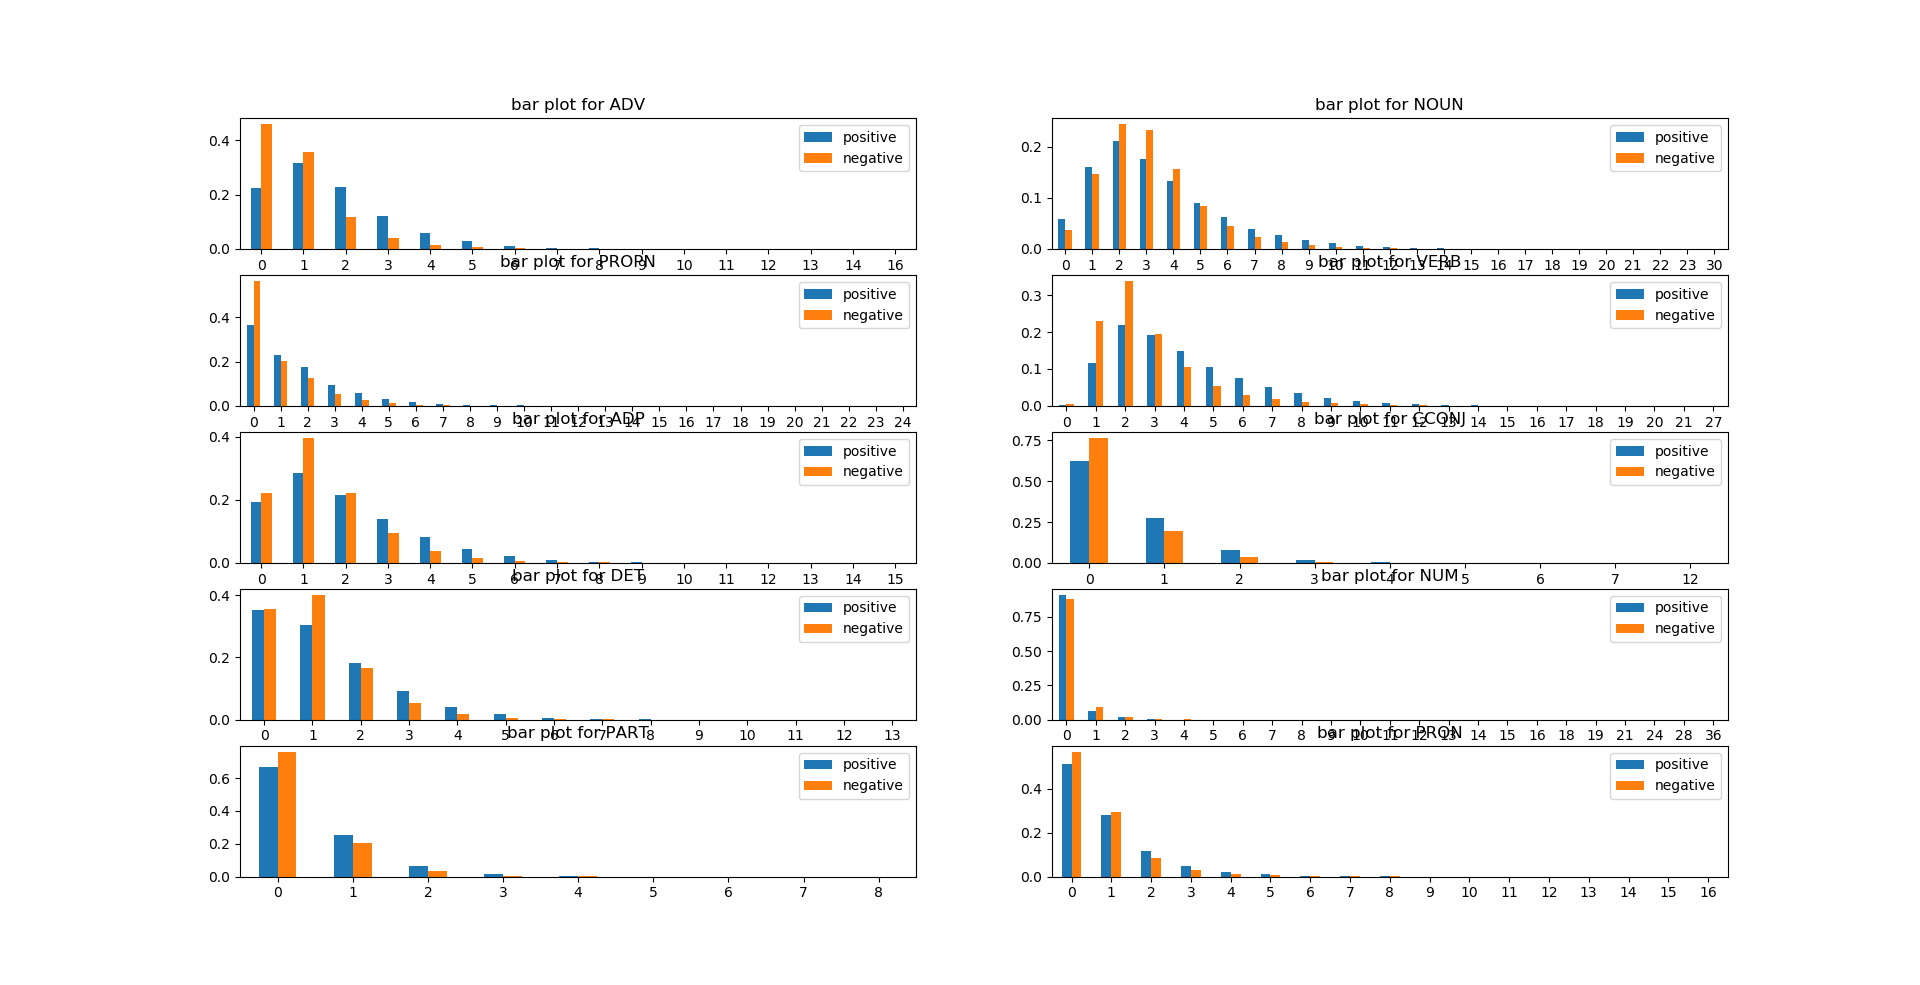
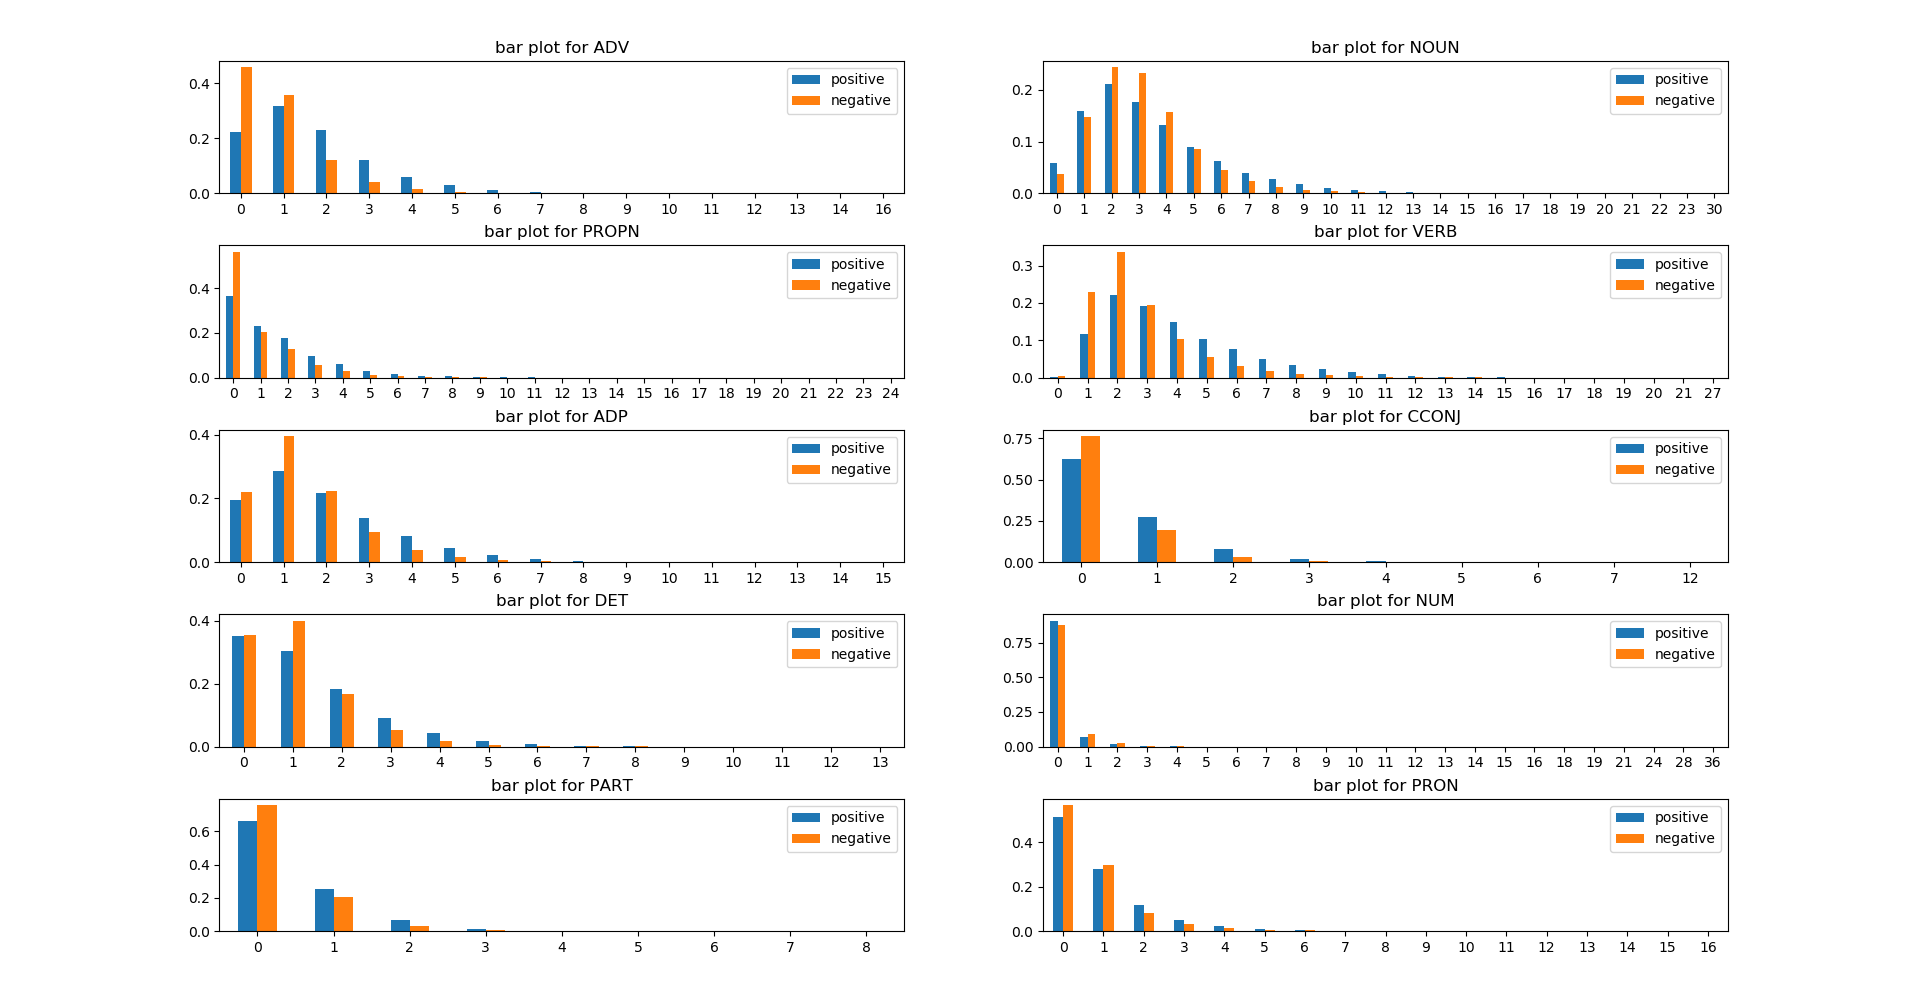
added plots and contents to the report

diff --git a/report/csc2511.tex b/report/csc2511.tex
@@ -27,6 +27,7 @@
 \usepackage[round]{natbib}
 \usepackage{lscape}
 \usepackage{graphicx}
+\usepackage[export]{adjustbox}
 
 \bibliographystyle{plainnat}
 %----------------------------------------------------------------------------------------
@@ -171,19 +172,53 @@ Another pre-processing step we conducted was correcting one specific set of nois
 
 \subsection{Corpus Statistics} \label{corpus-stats}
 
+\subsubsection{Feature Extraction}
+
 For corpus statistics analysis, we used pandas for data handling, spaCy for natural language processing, scipy for statistical testing, and matplotlib for plotting. 
 
 In our current setup, we look into the statistical information in three major aspects: punctuation marks, parts-of-speech tags, and named entities. Although spaCy PoS-tagger includes PUNCT (punctuation) as one lexical category, we developed our own list of punctuation marks for finer-grained details. The PoS tags used followed the Universal Dependencies scheme \citep{pos-tag}, and the named entities list followed the categorization provided by spaCy Named Entity Recognition model trained on OntoNotes 5 corpus \citep{spacy-named-entity}. For each specific item in these three categories, we first compute the frequencies of an item in all sentences, and then conducted the Kolmogorov–Smirnov (KS test) to compare their distributions in positive and negative samples. Since we used two-tail tests, the p-value threshold for significance is 0.01. All the tested features are listed in Table \ref{table:stats-features}. For all the significant features, we also generated boxplots, histograms, and kernel density estimation graphs to visualize the distributions. 
 
 Using KS test for discrete distributions is a compromised choice the test is less powerful if the distributions are not continuous. The large sample size is also problematic as it reduces the power of significance testing. At this point, we use this test as a coarse filtering process. One benefit of this approach is that the conservative reduction of number of features allows us to conduct more comprehensive corpus statistics analysis. In later steps, we will incorporate more feature selection methods to further reduce feature dimensions if necessary. 
 
-Another feature that we intend to add to our analysis is the sentiment measurement from TextBlob library. One main type of insincere question is questions with non-neutral tone, so we believe that directly feeding sentiment information to our model would be beneficial. 
+Another feature that we intend to add to our analysis is the sentiment measurement from TextBlob library. We believe that directly feeding sentiment information to our model would be beneficial because a non-neutral tone is one of the main indicators of insincere questions. 
 
-\subsection{Machine Learning Classifiers}
+\subsubsection{Visualization}
+
+To visualize extracted statistical features about punctuation, parts-of-speech tag, and named entities at corpus level, we created bar plots for the counts of the occurrences over the entire corpus. To visualize the distributions at sentence level, we used boxplots. For certain features of which the distributions are extremely skewed, our visualization methods may not provide the best representation. We have tried to use different types of plots to complement each other to partially solve this problem. For example, we created pie chart for punctuation marks to show the relative distribution in one sample population. Among the three aspects, the graphs showing the distributions of parts-of-speech tags are the most informative. As we are still refining these visualization techniques, here we only present some examples (figure \ref{figure:pos_bar}, figure \ref{figure:verb_box}, figure \ref{figure:puncpie}) to show our progress. 
+
+\begin{figure}
+	\centering
+	\includegraphics[width=\textwidth]{graphs/pos_bar.jpeg}
+	\caption{Bar plots of normalized counts of PoS tags in positive and negative samples}
+	\medskip
+	\small
+	Positive sentences are labelled as insincere. The y-axis is the normalized counts and x-axis is the number of occurrences of a pos tag in a sentence. 
+	\label{figure:pos_bar}
+\end{figure}
+
+
+\begin{figure} 
+	\includegraphics[height=5cm, center]{graphs/verb.png}
+	\caption{Boxplot for the distribuition of verbs in positive and negative samples}
+	\medskip
+	\small
+	\label{figure:verb_box}
+
+\end{figure}
+
+
+\begin{figure} 
+	\includegraphics[width=\textwidth, center]{graphs/puncpiecharts.png}
+	\caption{Pie charts for proportions of punctuations in positive and negative samples}
+	\medskip
+	\small
+	\label{figure:puncpie}
+\end{figure}
+
 
 \subsection{Word Embedding}
 
-\begin{table}[]
+\begin{table}[h!]
 \resizebox{\textwidth}{!}{%
 \begin{tabular}{|l|l|l|l|ll}
 \cline{1-4}
@@ -201,6 +236,16 @@ others                                  & exclamation marks                     
 The results of \citep{poria2017} indicated that compared to completely distributing word representations, modularized components with specific tasks could improve the overall performance of a CNN model. As we discussed in the previous sections, we have established several characteristics that indicate a Quora question to be insincere; therefore, the idea of combining various components each responsible for detecting different classification clues can be valuable for our project.  Also, SVM classifiers are known to be ideal for processing text data due to the sparse nature of text \citep{medhat2014}. One additional lesson from this study is that their CNN model with a relatively lower feature dimension (at 1,100) outperformed models using larger vector size (>500,000) both in terms of accuracy and computation speed \citep{poria2017}. 
 
 Among RNN implementations, LSTMs are advantageous because such architecture is easier to train and suffers less from vanishing or exploding gradients. The combination of CNN and RNN networks is also  for the several reasons. First, convolutional layer helped to extract abstract and compact features to be used as inputs to LSTM network \citep{chan2015}, which in turn compensates for the disadvantage of fixed filter width of convolutional layers, allowing for better analysis of long-distance relationships over texts with various length. Additionally, the convolution layers reduce feature variations so that CNN-LSTM work more efficiently \citep{ghosh2016}.
+
+\begin{figure} 
+	\includegraphics[height=0.7\textheight, center]{graphs/nn_architecture.png}
+	\caption{Pie charts for proportions of punctuations in positive and negative samples}
+	\medskip
+	\small
+	\label{figure:nnarchitecture}
+\end{figure}
+
+
 
 %------------------------------------------------
 

diff --git a/jinny/stats_plot.py b/jinny/stats_plot.py
@@ -19,6 +19,16 @@ def create_count_df_dict(pos_df, neg_df, normalize=True):
 			result[label] = count_df
 	return result
 
+def create_value_df_dict(pos_df, neg_df, normalize=True):
+	result = {}
+	for label in pos_df.columns:
+		if label != 'target':
+			values={
+				'positive': list(pos_df[label].values), 
+				'negative': list(neg_df[label].values)}
+			result[label] = values
+	return result
+
 def corpus_level_plot(df_dict, kind):
 	nrow = (len(df_dict.keys())+1) // 2
 	ncol = 2
@@ -27,9 +37,10 @@ def corpus_level_plot(df_dict, kind):
 	y = 0
 	
 	for key in df_dict:
-		curr_df = df_dict[key]
-		title = kind + ' plot for ' + key
-		curr_df.plot(kind=kind, title=title, ax=axes[x,y], xticks=range(0, int(curr_df.max().max())))
+		if kind == 'bar':
+			curr_df = df_dict[key]
+			title = kind + ' plot for ' + key
+			curr_df.plot(kind=kind, title=title, legend=True, ax=axes[x,y], xticks=range(0, int(curr_df.max().max())))
 
 		# update ax_pos
 		if y == 0:
@@ -46,9 +57,20 @@ def plot_test():
 	splitted_dfs = [split_target(df) for df in df_list]
 
 	normalized_count_dicts = [create_count_df_dict(dfs[0], dfs[1]) for dfs in splitted_dfs]
+	value_dicts = [create_value_df_dict(dfs[0], dfs[1]) for dfs in splitted_dfs]
+	print(value_dicts[0].keys())
 
 	bar_figures = [corpus_level_plot(df_dict, 'bar') for df_dict in normalized_count_dicts]
-	box_figures = [corpus_level_plot(df_dict, 'box') for df_dict in normalized_count_dicts]
+	
+	pos_values = value_dicts[2]
+
+	box_figures = []
+	for key in pos_values:
+		figure, ax = plt.subplots()
+		labels, data = pos_values[key].keys(), pos_values[key].values()
+		ax.boxplot(data, labels=labels)
+		ax.set_title(key)
+		box_figures.append(figure)
 
 	def count_value(df):
 		result = {}
@@ -58,7 +80,6 @@ def plot_test():
 		return result
 
 	pos_punc_count = count_value(splitted_dfs[1][0])
-	print(pos_punc_count)
 	neg_punc_count = count_value(splitted_dfs[1][1])
 
 	colors = ['#ff9999','#66b3ff','#99ff99','#ffcc99', '#adadeb']
